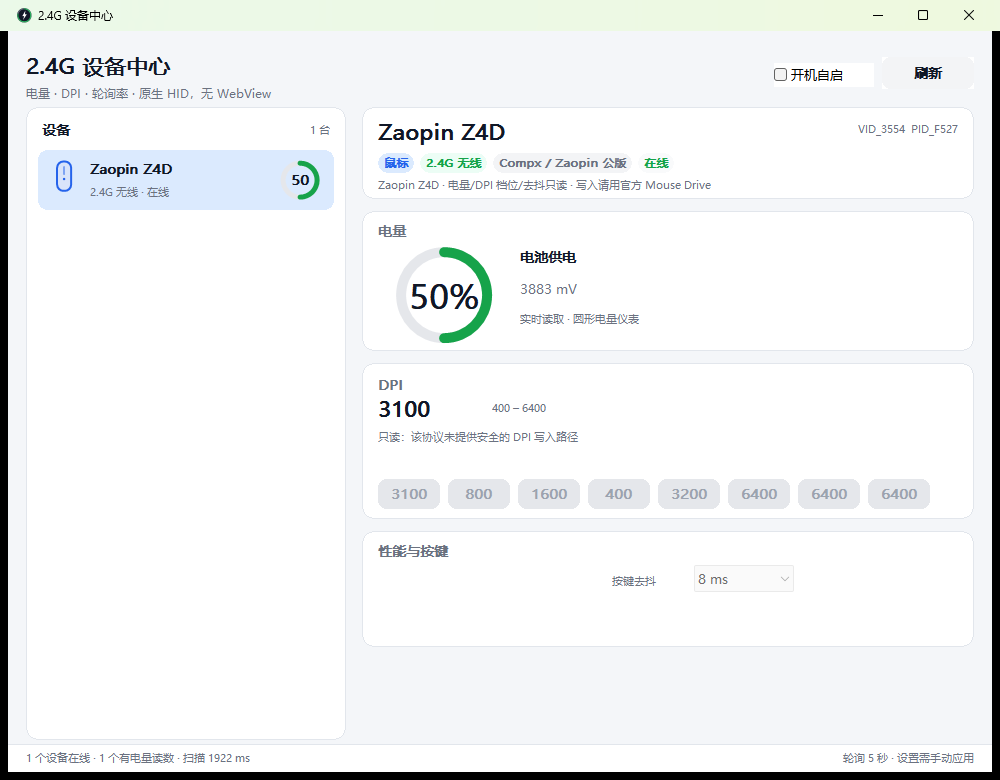
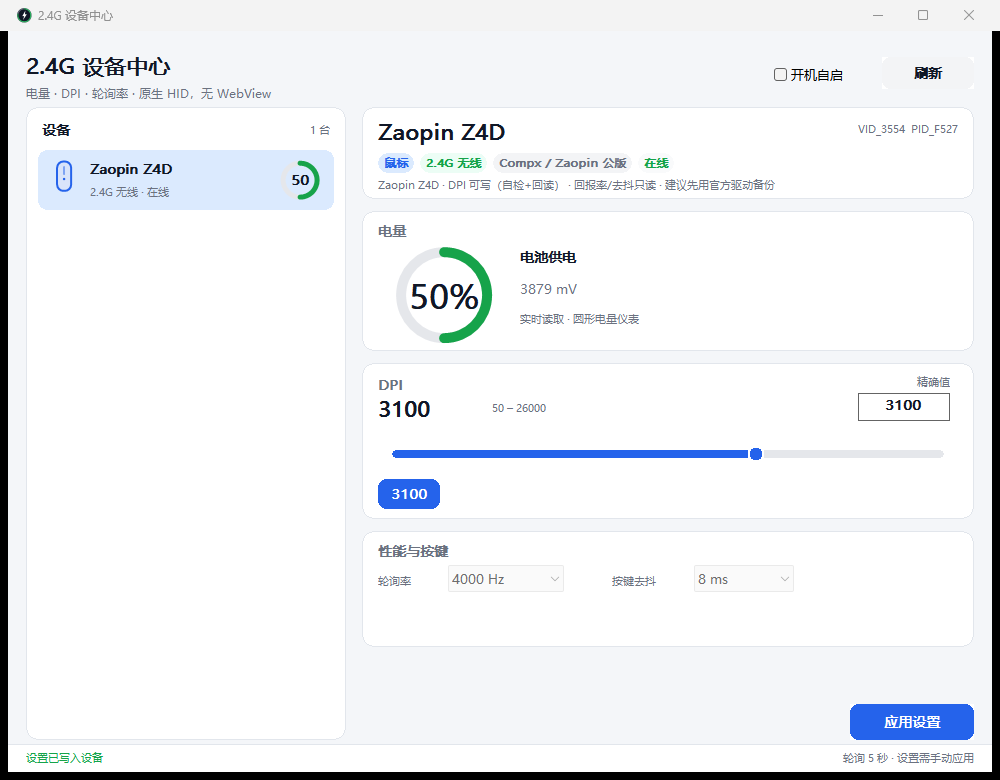
v1.0.1: Zaopin DPI write with self-check and read-back

diff --git a/src/proto_generic.cpp b/src/proto_generic.cpp
@@ -137,6 +137,33 @@ struct CompxLink {
         }
         return false;
     }
+
+    bool WriteFlash(uint16_t addr, const uint8_t* data, uint8_t len) {
+        if (len == 0 || len > 10) return false;
+        uint8_t req[17] = {};
+        req[0] = 8;
+        req[1] = 7;
+        req[2] = 0;
+        req[3] = (uint8_t)(addr >> 8);
+        req[4] = (uint8_t)addr;
+        req[5] = len;
+        memcpy(req + 6, data, len);
+        req[16] = CompxChecksum(req, 16);
+        if (!outH.sendRaw(req, sizeof(req), 700)) return false;
+        uint8_t buf[128] = {};
+        // The device echoes the frame for cmd 7. A lost ACK is non-fatal:
+        // the caller always verifies by reading the field back.
+        inH.readMatching(buf, sizeof(buf), [&](const uint8_t* b, int total) {
+            for (int o = 0; o + 6 <= total; ++o) {
+                if (b[o] == 8 && b[o + 1] == 7 && b[o + 3] == (uint8_t)(addr >> 8) &&
+                    b[o + 4] == (uint8_t)addr) {
+                    return true;
+                }
+            }
+            return false;
+        }, 700);
+        return true;
+    }
 };
 
 void CompxReadDpi(CompxLink& link, DpiInfo& dpi) {
@@ -217,25 +244,23 @@ void CompxReadZaopin(CompxLink& link, Device& d) {
         stages.push_back(value);
     }
     if (stages.empty()) return;
-    // maxDPI is the enabled count; higher slots can still contain valid
-    // historical values. Keep them visible but state the enabled count, and
-    // trim only trailing duplicates used as erased/placeholder slots.
-    while (stages.size() > 1 && stages.back() == stages[stages.size() - 2]) {
-        stages.pop_back();
-    }
+    // maxDPI is the enabled count; only these stages are writable. Historical
+    // higher slots are not exposed as editable stages.
+    if ((int)stages.size() > maxStages) stages.resize(maxStages);
 
     d.dpi.valid = true;
-    d.dpi.canWrite = false;
+    d.dpi.canWrite = true;
     d.dpi.currentKnown = true;
     d.dpi.stages = stages;
-    d.dpi.min = *std::min_element(stages.begin(), stages.end());
-    d.dpi.max = *std::max_element(stages.begin(), stages.end());
+    d.dpi.min = 50;
+    d.dpi.max = 26000;
     d.dpi.step = 50;
     if (currentStage < 0 || currentStage >= (int)stages.size()) currentStage = 0;
     d.dpi.activeStage = currentStage;
     d.dpi.x = stages[currentStage];
     d.dpi.y = d.dpi.x;
-    d.dpi.note = Fmt(L"Zaopin Z4D：maxDPI=%d（仅前 %d 档启用）；闪存档位只读，写入请用官方 Mouse Drive",
+    d.dpi.note = Fmt(L"Zaopin Z4D：maxDPI=%d（仅启用的 %d 档可写）；"
+                     L"写入会修改闪存并做自检/回读，建议先用官方驱动备份",
                      maxStages, maxStages);
 
     if (reportRateCode & 0x40) {
@@ -285,6 +310,139 @@ void CompxReadZaopin(CompxLink& link, Device& d) {
             d.debounce.options = {0, 2, 4, 6, 8, 10, 12, 16, 20, 24, 28, 32};
         }
     }
+}
+
+bool IsZaopinDevice(const Device& d) {
+    if (d.proto != Proto::Compx || d.vid != 0x3554) return false;
+    return d.pid == 0xF527 || d.pid == 0xF526 || d.pid == 0xF524 || d.pid == 0xF50F ||
+           d.pid == 0xF50D;
+}
+
+bool EncodeZaopinDpi(int dpi, uint8_t& x, uint8_t& ex) {
+    dpi = ClampInt(dpi, 50, 26000);
+    dpi = ((dpi + 25) / 50) * 50;
+    dpi = ClampInt(dpi, 50, 26000);
+    int code = 0;
+    int flags = 0;
+    if (dpi <= 12750) {
+        code = dpi / 50 - 1;
+    } else if (dpi % 100 == 0) {
+        code = dpi / 100 - 1;
+        flags = 0x22;
+    } else {
+        code = dpi / 50 - 1;
+    }
+    if (code < 0 || code > 0x3FF) return false;
+    int hi = (code >> 8) & 0x03;
+    flags |= (hi << 2) | (hi << 6);
+    x = (uint8_t)(code & 0xFF);
+    ex = (uint8_t)flags;
+    int decoded = (code + 1) * ((flags & 0x22) ? 100 : 50);
+    if (flags & 0x11) decoded *= 2;
+    return decoded == dpi;
+}
+
+bool ApplyZaopinDpi(const Device& dev, const ApplyRequest& req, std::wstring& err) {
+    if (!req.setDpi) {
+        err = L"没有 DPI 参数可写入";
+        return false;
+    }
+    int stage = req.stageIndex >= 0 ? req.stageIndex : dev.dpi.activeStage;
+    if (stage < 0 || stage > 7 || stage >= (int)dev.dpi.stages.size()) {
+        err = L"该 DPI 档位未启用";
+        return false;
+    }
+
+    uint8_t x = 0, ex = 0;
+    if (!EncodeZaopinDpi(req.dpiX, x, ex)) {
+        err = L"DPI 值超出可编码范围";
+        return false;
+    }
+    uint8_t record[4] = {x, x, ex, (uint8_t)((0x55 - x - x - ex) & 0xFF)};
+    uint16_t addr = (uint16_t)(0x0C + stage * 4);
+
+    CompxGroup g;
+    g.base = dev.basePath;
+    g.vid = dev.vid;
+    g.pid = dev.pid;
+    g.product = dev.product;
+    for (const auto& h : dev.ifaces) {
+        if (h.vid != dev.vid || h.pid != dev.pid || h.usagePage != 0xFF02) continue;
+        if (h.outLen >= 17 && !g.hasOut) {
+            g.outIface = h;
+            g.hasOut = true;
+        }
+        if (h.inLen >= 17 && !g.hasIn) {
+            g.inIface = h;
+            g.hasIn = true;
+        }
+    }
+    if (!g.hasOut || !g.hasIn) {
+        err = L"找不到 Zaopin 配置接口";
+        return false;
+    }
+    CompxLink link;
+    if (!link.Open(g)) {
+        err = L"无法打开 Zaopin 配置接口（可能被官方驱动占用）";
+        return false;
+    }
+
+    std::vector<uint8_t> old;
+    if (!link.ReadEeprom(addr, 4, old) || old.size() < 4) {
+        err = L"读取原 DPI 失败；鼠标可能休眠，请移动后重试";
+        return false;
+    }
+
+    // Same-value self test first: verifies frame/checksum/ACK/read-back without
+    // changing the configuration. If this fails, abort before writing new data.
+    if (!link.WriteFlash(addr, old.data(), 4)) {
+        err = L"DPI 写入通道自检发送失败";
+        return false;
+    }
+    Sleep(40);
+    std::vector<uint8_t> back;
+    if (!link.ReadEeprom(addr, 4, back) || back.size() < 4 ||
+        memcmp(old.data(), back.data(), 4) != 0) {
+        err = L"DPI 写入通道自检失败，未修改配置";
+        return false;
+    }
+
+    if (!link.WriteFlash(addr, record, 4)) {
+        err = L"写入 DPI 失败";
+        return false;
+    }
+    Sleep(50);
+    if (!link.ReadEeprom(addr, 4, back) || back.size() < 4 ||
+        memcmp(record, back.data(), 4) != 0) {
+        link.WriteFlash(addr, old.data(), 4);
+        err = L"DPI 写入校验失败，已尝试恢复原值";
+        return false;
+    }
+
+    if (req.selectStage) {
+        std::vector<uint8_t> oldStage;
+        if (!link.ReadEeprom(0x0004, 1, oldStage) || oldStage.empty()) {
+            link.WriteFlash(addr, old.data(), 4);
+            err = L"读取当前 DPI 档失败，已恢复档位值";
+            return false;
+        }
+        uint8_t cur[2] = {(uint8_t)stage, (uint8_t)(0x55 - stage)};
+        if (!link.WriteFlash(0x0004, cur, 2)) {
+            link.WriteFlash(addr, old.data(), 4);
+            err = L"切换当前 DPI 档失败，已恢复档位值";
+            return false;
+        }
+        Sleep(40);
+        std::vector<uint8_t> curBack;
+        if (!link.ReadEeprom(0x0004, 1, curBack) || curBack.empty() || curBack[0] != stage) {
+            uint8_t restore[2] = {oldStage[0], (uint8_t)(0x55 - oldStage[0])};
+            link.WriteFlash(0x0004, restore, 2);
+            link.WriteFlash(addr, old.data(), 4);
+            err = L"当前 DPI 档校验失败，已尝试恢复原值";
+            return false;
+        }
+    }
+    return true;
 }
 
 Conn CompxConnection(uint16_t vid, uint16_t pid, const std::wstring& product) {
@@ -633,7 +791,7 @@ void ReadGeneric(const std::vector<HidInterface>& all, std::vector<Device>& out)
                                        g.pid == 0xF50D)) {
             CompxReadZaopin(link, d);
             if (d.dpi.valid) {
-                d.note = L"Zaopin Z4D · 电量/DPI/回报率/去抖只读 · 写入请用官方 Mouse Drive";
+                d.note = L"Zaopin Z4D · DPI 可写（自检+回读） · 回报率/去抖只读 · 建议先用官方驱动备份";
             } else {
                 d.note = L"Zaopin Z4D · 电量已读取 · DPI 闪存读取失败（移动鼠标后刷新）";
             }
@@ -786,7 +944,9 @@ void ReadGeneric(const std::vector<HidInterface>& all, std::vector<Device>& out)
 }
 
 bool ApplyGeneric(const Device& dev, const ApplyRequest& req, std::wstring& err) {
-    (void)dev;
+    if (IsZaopinDevice(dev) && dev.dpi.canWrite) {
+        return ApplyZaopinDpi(dev, req, err);
+    }
     (void)req;
     err = L"该公版/网页驱动协议目前只读，不支持写入设置";
     return false;

diff --git a/src/ui.cpp b/src/ui.cpp
@@ -1223,6 +1223,20 @@ void MainWindow::ApplySettings() {
         ShowToast(L"该设备没有可写入的设置", false);
         return;
     }
+    bool isZaopin = d->proto == Proto::Compx && d->vid == 0x3554 &&
+                    (d->pid == 0xF527 || d->pid == 0xF526 || d->pid == 0xF524 ||
+                     d->pid == 0xF50F || d->pid == 0xF50D);
+    if (isZaopin && req.setDpi) {
+        if (MessageBoxW(hwnd_,
+                        L"将把 DPI 写入 Zaopin Z4D 的闪存配置。\n\n"
+                        L"程序会先做一次原值回写自检，再写入新值并读回校验；\n"
+                        L"失败会尝试恢复原值。官方固件没有事务回滚，\n"
+                        L"建议先用 Mouse Drive 记录当前 DPI。\n\n继续写入？",
+                        L"写入 Zaopin 闪存", MB_YESNO | MB_ICONWARNING | MB_DEFBUTTON2) !=
+            IDYES) {
+            return;
+        }
+    }
     manager_.Apply(req);
     ShowToast(L"正在写入设备…", true, 3);
 }

diff --git a/src/manager.cpp b/src/manager.cpp
@@ -235,6 +235,8 @@ void DeviceManager::ProcessApply(const ApplyRequest& req) {
                 ok = proto::ApplyRapoo(*target, req, msg);
                 break;
             case Proto::Compx:
+                ok = proto::ApplyGeneric(*target, req, msg);
+                break;
             case Proto::Nordic54:
             case Proto::Aurora:
             case Proto::Cherry:

diff --git a/README.md b/README.md
@@ -18,7 +18,7 @@ rate and key settings. Pure Win32 + GDI/GDI+, a single ~400 KB executable, no We
 ## 下载 / Download
 
 从 [GitHub Releases](https://github.com/SeyanaA/2.4g-device-center/releases/latest) 下载
-`2.4G-Device-Center-v1.0-win64.zip`，解压后运行 `WirelessCenter.exe`。
+`2.4G-Device-Center-v1.0.1-win64.zip`，解压后运行 `WirelessCenter.exe`。
 
 ## 快速开始
 
@@ -51,7 +51,7 @@ WirelessCenter.exe --diag     输出 HID 接口诊断，便于适配新设备
 | ASUS ROG 私有 HID | ✅ | ✅ 4 档读/写 | ✅ 读/写 | 按键去抖、角度捕捉、保存 |
 | Razer HID | ✅ | ✅ 读/写 | ✅ 读/写 | 125–8000 Hz（按型号） |
 | Rapoo 2.4G | ✅ | ✅ 7 档读/写 | ✅ 读/写 | 去抖、角度捕捉、状态报文 |
-| Compx 公版 | ✅ | 部分型号只读 | ❌ | Zaopin / LAMZU / VXE / Redragon / G-Wolves / Endgame 等；Z4D 可读闪存档位 |
+| Compx 公版 | ✅ | 部分型号可写（Zaopin 已启用档位） | ❌ | Zaopin / LAMZU / VXE / Redragon / G-Wolves / Endgame 等 |
 | Nordic 54 | ✅ | ❌ | ❌ | ATK/VXE 新接收器 |
 | Aurora / mouse.xyz | ✅ | ❌ | ❌ | LAMZU / G-Wolves 网页驱动系列 |
 | Cherry HID | ✅ | ❌ | ❌ | 无线键盘 |
@@ -60,9 +60,10 @@ WirelessCenter.exe --diag     输出 HID 接口诊断，便于适配新设备
 
 已验证/本机联调：
 
-- **Zaopin Z4D**（`VID_3554 / PID_F527`，Compx 0xFF02 17 字节通道）：电量、充电、电压、当前 DPI、启用的闪存 DPI 档位、回报率和按键去抖均可只读。
-  - 实测：50%、3883 mV、当前 3100 DPI、4000 Hz、去抖 8 ms；设备 `maxDPI=1`，因此官方驱动也只启用 1 个档位。
-  - 本版本**不写** Z4D 的闪存/DPI；需要修改请用官方 Mouse Drive，避免破坏原厂配置。
+- **Zaopin Z4D**（`VID_3554 / PID_F527`，Compx 0xFF02 17 字节通道）：电量、充电、电压、当前 DPI、启用的 DPI 档位、回报率和按键去抖可读；**DPI 档位可写**。
+  - 实测：50%、3883 mV、当前 3100 DPI、4000 Hz、去抖 8 ms；设备 `maxDPI=1`，因此只启用 1 个档位。
+  - DPI 写入只针对设备启用的档位/当前档；先做一次原值回写自检，再写新值并读回校验；失败会尝试恢复原值，应用前会弹确认框。
+  - 回报率/去抖/宏/灯效仍为只读；需要增加档位数量请用官方 Mouse Drive。
 - 其它品牌协议来自公开逆向资料和社区项目，具体型号固件可能有差异；用 `--diag` 反馈即可继续适配。
 
 蓝牙设备只使用 Windows 暴露的标准 HID 电池/厂商 HID++ 路径，不做 BLE GATT 扫描。
@@ -128,6 +129,7 @@ README.en.md                  English README
 
 - 后台自动查询只包含：状态、电量、版本、配置、状态报文；不写闪存、不写宏、不写灯效、不碰固件。
 - 写设置仅由用户点击「应用设置」触发；ASUS 会再发保存命令，Rapoo/Compx 的 EEPROM 写入直接持久化。
+- Zaopin DPI 写入会先做原值回写自检，再写入并读回校验；失败恢复原值，且应用前需要用户确认。
 - 对未知/未验证的公版设备，优先只读；不会盲目写入 DPI 表。
 - 不修改官方驱动目录、注册表（除可选的 HKCU 开机自启）或系统 HID 栈。
 - 厂商名称和商标归各自所有者；本项目与厂商无关联。

diff --git a/README.en.md b/README.en.md
@@ -27,7 +27,7 @@ Electron, no .NET/Python runtime: a single ~400 KB x64 executable built with C++
 | ASUS ROG private HID | ✅ | ✅ 4 stages R/W | ✅ R/W | debounce, angle snapping, save |
 | Razer HID | ✅ | ✅ R/W | ✅ R/W | up to 8000 Hz where supported |
 | Rapoo 2.4G | ✅ | ✅ 7 stages R/W | ✅ R/W | debounce, angle snapping |
-| Compx family | ✅ | partial, read-only | ❌ | Zaopin / LAMZU / VXE / Redragon / G-Wolves / Endgame |
+| Compx family | ✅ | partial: Zaopin enabled stages R/W | ❌ | Zaopin / LAMZU / VXE / Redragon / G-Wolves / Endgame |
 | Nordic 54 | ✅ | ❌ | ❌ | ATK/VXE receivers |
 | Aurora / mouse.xyz | ✅ | ❌ | ❌ | LAMZU / G-Wolves web-driver devices |
 | Cherry HID | ✅ | ❌ | ❌ | wireless keyboards |
@@ -42,12 +42,15 @@ Electron, no .NET/Python runtime: a single ~400 KB x64 executable built with C++
   `maxDPI` at `0x02`, polling bitmask at `0x00`, debounce at `0xA9`.
 - DPI decode: `code = x | (((DPIex >> 6) & 3) << 8)`, `unit = (DPIex & 0x22) ? 100 : 50`,
   `DPI = (code + 1) * unit`, `* 2` if `DPIex & 0x11`.
-- **Read-only for Zaopin**: its official driver writes flash with no transactional safety. Use
-  `Mouse Drive Beta` to change DPI/settings; this app displays the current state only.
+- **DPI write for Zaopin**: enabled stages and the current stage can be written. The app first
+  writes the old record back as a self-test, then writes the new record and verifies it by reading
+  it back; on failure it attempts to restore the old value. A confirmation dialog is shown before
+  writing. Polling/debounce and macros/lighting remain read-only; use `Mouse Drive Beta` to add
+  stages or change other settings.
 
 ## Quick start
 
-Download `2.4G-Device-Center-v1.0-win64.zip` from
+Download `2.4G-Device-Center-v1.0.1-win64.zip` from
 [Releases](https://github.com/SeyanaA/2.4g-device-center/releases/latest), extract and run
 `WirelessCenter.exe`.
 
@@ -68,7 +71,8 @@ Notes:
 - Close vendor software (Logitech G HUB, Razer Synapse, Zaopin Mouse Drive, etc.) if it holds the
   HID interface exclusively.
 - Automatic polling only sends read/status requests. Writes happen only after you press
-  **Apply settings**. Zaopin flash writes are intentionally disabled.
+  **Apply settings** and confirm the Zaopin flash warning.
+- Zaopin flash writes are limited to enabled DPI stages/current stage and are read-back verified.
 
 ## Build
 

diff --git a/PROTOCOLS.md b/PROTOCOLS.md
@@ -248,7 +248,18 @@ if (DPIex & 0x11) DPI *= 2
 ```
 
 Z4D 实际闪存 8 个槽位：`3100, 800, 1600, 400, 3200, 6400, 6400, 6400`；但 `maxDPI=1`，官方 UI 只启用第 0 槽，所以当前 DPI = 3100。回报率 0x20 → 4000 Hz，去抖 0xA9 = 8 ms。
-官方 Mouse Drive 的写路径使用 opcode `0x07` 逐字段写入（**无 AES、无 commit、无全局 CRC**，ACK 为整帧回显）；由于没有事务/回滚，本版本**不写**，需要修改请用官方驱动。`AesEncryption` 仅用于固件升级文件，与 HID 配置无关。
+写路径（本版本仅对 Zaopin 开放 DPI，其他 Compx 仍只读）：
+
+```text
+TX: 08 07 00 <addrHi> <addrLo> <len> <data...> <checksum>
+```
+
+- DPI 档位 i：`addr=0x0C+4*i`，data=`[xDPI, yDPI, DPIex, 0x55-(x+y+ex)]`。
+- 当前档：`addr=0x0004`，data=`[stage, 0x55-stage]`。
+- **无 AES、无 commit、无全局 CRC**；ACK 为整帧原样回显。
+- 本程序只写设备启用的档位/当前档：先原值回写自检，再写新值并读回校验；失败尝试恢复原值，应用前弹确认。
+- 未实现回报率/去抖/按键/宏/灯效写入；这些仍只读。
+- `AesEncryption` 仅用于官方固件升级文件，与 HID 配置无关。
 
 参考：[svetikas/battery](https://github.com/svetikas/battery)、[OpenVXE](https://github.com/BuSd777/OpenVXE)、[vxe-battery-tray PROTOCOL.md](https://github.com/ivancacic/vxe-battery-tray/blob/main/PROTOCOL.md)、[lamzu-battery](https://github.com/lavandiI/lamzu-battery)。
 
